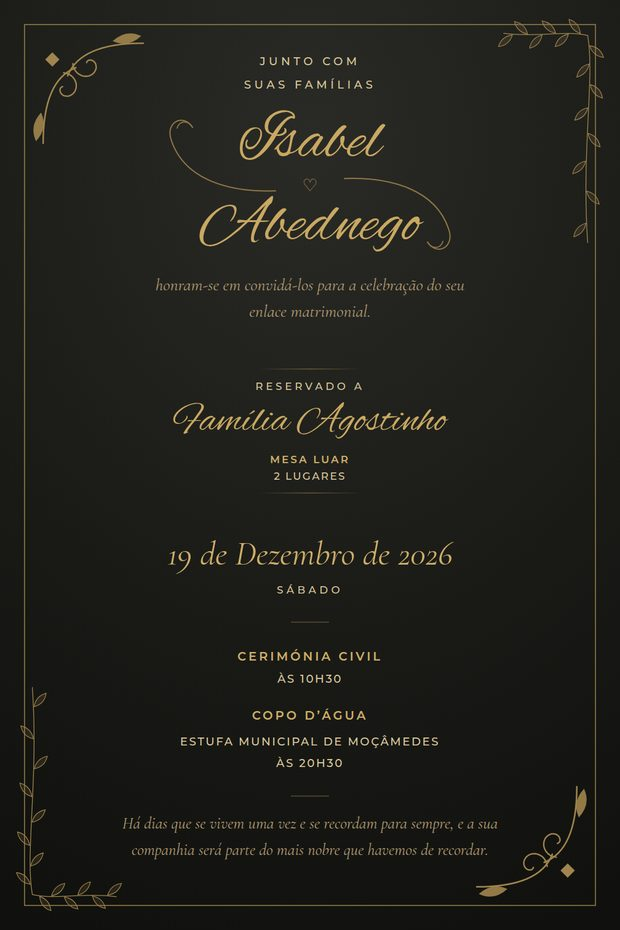
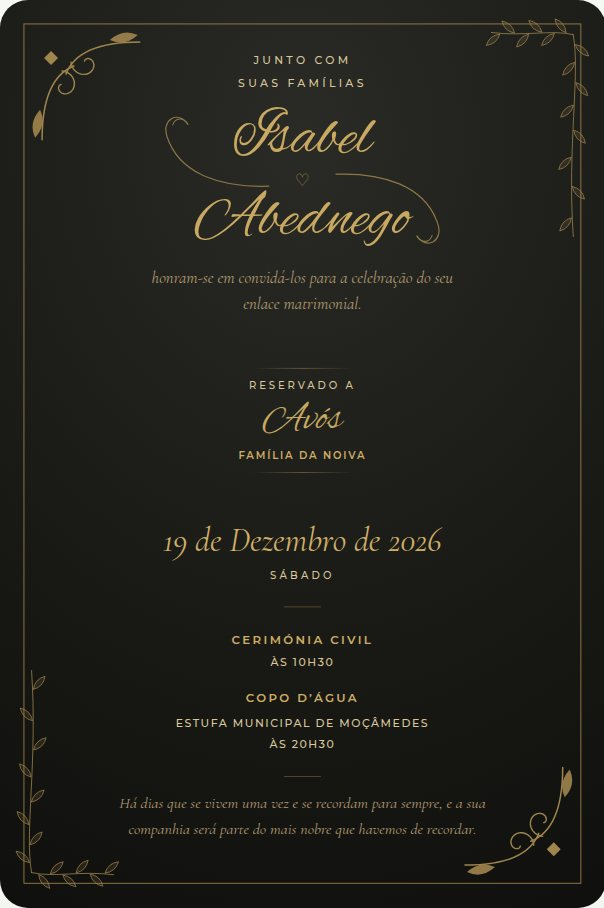
As capturas da montra passam a mostrar o produto de hoje
São capturas do produto a sério, e não desenhos — é essa a promessa que
elas fazem a quem se vem inscrever. Só que o produto mudou por baixo delas:
o cartão do orçamento que diz «Margem até ao teto» já não existe (é «Em
atraso», e filtra), o convite digital tem outro desenho, a página da porta
tem outro cabeçalho. A montra continuava a vender o ecrã de há meses.

Refeitas as seis, e passa a haver ferramenta para as refazer: tests/montra.js.
Semeia o casamento de demonstração com uma festa a sério — nove convites,
trinta e uma pessoas, seis mesas, um orçamento de 7 200 000 Kz com parcelas
(uma vencida, para o cartão «Em atraso» ter um número em vez de um zero
apagado) e três convites já entrados —, abre cada página com uma conta de
noivos criada só para isso e apagada no fim (com a do admin, a tira amarela
da visita de suporte entrava em todas as imagens), tira do ecrã o que não é
produto (a pastilha do tema, os botões flutuantes do convite) e escreve os
JPEG por cima dos que lá estão.

Não é uma prova e o correr.js não lhe pega: corre-se à mão quando o produto
muda de cara. Fica documentada no LEIA-ME das provas, com o aviso que
importa — depois de correr, olhar para as imagens.

Claude-Session: https://claude.ai/code/session_01G7T4LxsLUKe1amxYBuKzJB

diff --git a/casamento_web/tests/montra.js b/casamento_web/tests/montra.js
@@ -1,0 +1,316 @@
+// montra.js — refaz as capturas de ecrã que a montra dos planos mostra.
+//
+// NÃO é uma prova (o correr.js não lhe pega). É a ferramenta que se corre
+// quando o produto muda de cara: as imagens de assets/montra/ são capturas do
+// produto a sério, e uma montra que mostra o ecrã de há seis meses vende uma
+// coisa que já não existe.
+//
+// O que faz, por esta ordem:
+//
+//   1. semeia o casamento de demonstração com uma festa a sério — convidados,
+//      mesas, orçamento, entradas — porque um ecrã vazio não vende nada;
+//   2. abre cada página com uma conta de NOIVOS (criada aqui, apagada no fim),
+//      e não com a do admin: senão a tira amarela da visita de suporte entrava
+//      em todas as capturas;
+//   3. corta o miolo de cada página — o cabeçalho fica de fora, como nas
+//      capturas de origem: a montra vende o módulo, não a moldura;
+//   4. escreve os JPEG por cima dos que lá estão.
+//
+// Uso:  node montra.js            (todas)
+//       node montra.js orcamento  (só uma)
+//
+// Depois de correr, OLHE para as imagens. Uma captura tremida ou cortada a
+// meio de uma linha é pior do que a antiga.
+const { chromium } = require('playwright-core');
+const fs = require('fs'), path = require('path');
+const EXE  = process.env.CHROMIUM || '/opt/pw-browsers/chromium-1194/chrome-linux/chrome';
+const BASE = process.env.BASE_URL || 'http://127.0.0.1:8920';
+const DEST = path.join(__dirname, '..', 'assets', 'montra');
+
+const ADMIN = { u: 'admin', s: 'noivos2026' };
+const NOIVOS = { email: 'montra@exemplo.local', senha: 'Montra-2026-Prova' };
+
+// As medidas das capturas de origem. Mantêm-se: a montra desenha-as com
+// proporções que já estão escolhidas, e mudá-las mexe no desenho da página.
+const MEDIDAS = {
+  convidados: { w: 1100, h: 697 },
+  mesas:      { w: 1100, h: 697 },
+  orcamento:  { w: 1100, h: 697 },
+  porta:      { w: 1100, h: 1102 },
+  impresso:   { w: 620,  h: 930 },
+  digital:    { w: 560,  h: 1211 },
+};
+
+const so = process.argv[2] || '';
+const quero = (k) => !so || k === so;
+
+const api = (p, a, c) => p.evaluate(async ({ a, c }) => {
+  const r = await fetch('api.php?action=' + a, { method: c ? 'POST' : 'GET',
+    headers: Object.assign({ 'X-CSRF-Token': window.CSRF || '' },
+                           c ? { 'Content-Type': 'application/json' } : {}),
+    body: c ? JSON.stringify(c) : undefined });
+  try { return await r.json(); } catch (e) { return { success: false }; }
+}, { a, c });
+
+async function entrar(p, u, s) {
+  await p.goto(BASE + '/login.php', { waitUntil: 'networkidle' });
+  await p.fill('input[name=utilizador]', u);
+  await p.fill('input[name=senha]', s);
+  await p.click('button[type=submit]');
+  await p.waitForLoadState('networkidle');
+}
+
+/**
+ * Uma festa a sério no casamento de demonstração.
+ *
+ * Os números são inventados mas plausíveis, e é essa a única exigência: quem
+ * olha para a montra tem de reconhecer o seu próprio casamento no ecrã. Não se
+ * apaga nada do que já lá esteja — semeia-se por cima, e o que já existir com
+ * o mesmo nome fica como está.
+ */
+async function semear(p) {
+  console.log('  a semear a festa…');
+  const mesas = [
+    ['Amigos', 10, 'redonda', 28, 30], ['Colegas', 12, 'redonda', 62, 30],
+    ['Família da noiva', 10, 'comprida', 28, 62], ['Família do noivo', 8, 'comprida', 62, 62],
+    ['Padrinhos', 6, 'redonda', 45, 78],
+  ];
+  const convites = [
+    ['Amigos do Nelson', 'Amigos',           ['Beatriz', 'Joana', 'Nelson'],           'digital', 'confirmado'],
+    ['Colegas do escritório', 'Colegas',      ['Bruno', 'Alda', 'Rui', 'Sofia'],        'digital', 'confirmado'],
+    ['Família Bengui', 'Amigos',              ['Inês', 'Nelson B.', 'Tiago'],           'ambos',   'pendente'],
+    ['Família Cardoso', 'Colegas',            ['Ana', 'Marta', 'Paulo', 'Rita'],        'fisico',  'recusado'],
+    ['Tios da noiva', 'Família da noiva',     ['Lurdes', 'Alberto', 'Cátia'],           'digital', 'confirmado'],
+    ['Avós', 'Família da noiva',              ['Amélia', 'Joaquim'],                    'fisico',  'pendente'],
+    ['Primos do noivo', 'Família do noivo',   ['Hélder', 'Cláudia', 'Nuno'],            'digital', 'pendente'],
+    ['Padrinhos de batismo', 'Padrinhos',     ['Teresa', 'Miguel'],                     'ambos',   'confirmado'],
+    ['Vizinhos da quinta', 'Colegas',         ['Fernanda', 'José', 'Carla', 'Duarte'],  'digital', 'pendente'],
+  ];
+  const categorias = [
+    ['Espaço e decoração', '#2E86C8'], ['Buffet', '#B4864A'], ['Traje', '#A5473F'],
+    ['Fotografia', '#7A5CA8'], ['Música', '#2F9E8F'], ['Convites', '#C98A2E'],
+  ];
+  // A quinta coluna são as parcelas: [valor, dias a contar de hoje]. As
+  // negativas já venceram — é o que faz o cartão «Em atraso» contar alguma
+  // coisa, e uma montra que mostra a função apagada não a vende.
+  const despesas = [
+    ['Quinta das Acácias · aluguer', 1400000, 'pago',     'Espaço e decoração', []],
+    ['Arranjos florais',              380000, 'previsto', 'Espaço e decoração', [[180000, -6], [200000, 24]]],
+    ['Menu para 120 pessoas',        1900000, 'pago',     'Buffet', []],
+    ['Bolo dos noivos',               240000, 'previsto', 'Buffet', [[240000, 41]]],
+    ['Vestido e alterações',          620000, 'pago',     'Traje', []],
+    ['Fato do noivo',                 340000, 'pago',     'Traje', []],
+    ['Reportagem de fotografia',      700000, 'pago',     'Fotografia', []],
+    ['DJ e som',                      380000, 'previsto', 'Música', [[190000, 12], [190000, 55]]],
+    ['Impressão dos convites',        150000, 'previsto', 'Convites', [[150000, -2]]],
+  ];
+
+  await p.goto(BASE + '/index.php', { waitUntil: 'networkidle' });
+  const feito = await p.evaluate(async (d) => {
+    const chamar = async (a, c) => {
+      const r = await fetch('api.php?action=' + a, { method: c ? 'POST' : 'GET',
+        headers: Object.assign({ 'X-CSRF-Token': window.CSRF },
+                               c ? { 'Content-Type': 'application/json' } : {}),
+        body: c ? JSON.stringify(c) : undefined });
+      try { return await r.json(); } catch (e) { return { success: false }; }
+    };
+    const conta = { mesas: 0, convites: 0, despesas: 0, parcelas: 0, entradas: 0 };
+
+    // ---- as mesas ----
+    const jaMesas = ((await chamar('mesa_list')).mesas || []).map(m => m.nome);
+    for (const [nome, capacidade, forma, pos_x, pos_y] of d.mesas) {
+      if (jaMesas.includes(nome)) continue;
+      await chamar('mesa_save', { nome, capacidade, forma, pos_x, pos_y, cor: 'verde' });
+      conta.mesas++;
+    }
+
+    // ---- os convites, com as pessoas lá dentro ----
+    const jaConv = ((await chamar('convite_list')).convites || []).map(c => c.nome_exibicao);
+    const ids = [];
+    for (const [nome, mesa, membros, tipo, estado] of d.convites) {
+      if (jaConv.includes(nome)) continue;
+      const r = await chamar('convite_save', {
+        nome_exibicao: nome, mesa, tipo, presenca: estado,
+        lado: /noiva|Amigos/.test(mesa) ? 'noiva' : 'noivo',
+        membros: membros.map(x => ({ nome: x, vai: estado === 'confirmado' })) });
+      if (!r || !r.success || !r.convite) continue;
+      conta.convites++;
+      if (estado === 'confirmado') ids.push(r.convite.id);
+    }
+
+    // ---- o orçamento ----
+    await chamar('orc_ajuste', { total: 7200000, moeda: 'Kz' });
+    const est = await chamar('orc_estado');
+    const jaCat = {}; (est.categorias || []).forEach(c => { jaCat[c.nome] = c.id; });
+    for (const [nome, cor] of d.categorias) {
+      if (jaCat[nome]) continue;
+      const r = await chamar('orc_categoria_guardar', { nome, cor });
+      if (r && r.success) jaCat[nome] = r.id;
+    }
+    const jaDesp = (est.despesas || []).map(x => x.descricao);
+    const iso = n => new Date(Date.now() + n * 86400000).toISOString().slice(0, 10);
+    for (const [descricao, valor, estado, cat, parcelas] of d.despesas) {
+      if (jaDesp.includes(descricao)) continue;
+      const r = await chamar('orc_despesa_guardar',
+                   { descricao, valor, estado, categoria_id: jaCat[cat] || null });
+      conta.despesas++;
+      // As parcelas: é o que enche o calendário, e é uma delas, já vencida,
+      // que dá ao cartão «Em atraso» um número em vez de um zero apagado.
+      if (r && r.success && r.id) for (const [v, dias] of (parcelas || [])) {
+        await chamar('orc_pagamento_guardar',
+                     { despesa_id: r.id, valor: v, data_prevista: iso(dias) });
+        conta.parcelas++;
+      }
+    }
+
+    // ---- a porta: alguns já entraram ----
+    // É o que faz o ecrã do porteiro valer a captura: vazio, mostra três zeros.
+    for (const convite_id of ids.slice(0, 3)) {
+      const r = await chamar('porta_checkin', { convite_id, modo: 'todos' });
+      if (r && r.success) conta.entradas++;
+    }
+    return conta;
+  }, { mesas, convites, categorias, despesas });
+  console.log('  ', JSON.stringify(feito));
+}
+
+/**
+ * Tira do ecrã o que não é produto.
+ *
+ * A pastilha do tema é uma escolha de quem está a ver, e a tira da visita de
+ * suporte é do admin: nenhuma das duas existe para o casal que vai comprar, e
+ * na captura ficavam a prometer coisas que não são do módulo.
+ */
+async function limpar(p) {
+  await p.evaluate(() => {
+    document.querySelectorAll('.tema-fab, .tira-suporte, #at-bolha, .at-bolha,'
+      // No convite, os dois botões flutuantes: descarregar e o som. São do
+      // convidado, não do módulo — e numa miniatura leem-se como sujidade.
+      + ' #dlBtn, #audioBtn').forEach(e => e.remove());
+  });
+}
+
+/** Corta o miolo da página (sem o cabeçalho) para a medida pedida. */
+async function capturar(p, nome, seletor) {
+  const { w, h } = MEDIDAS[nome];
+  const cx = await p.$(seletor);
+  if (!cx) { console.log('  ! ' + nome + ': não achei ' + seletor); return; }
+  await limpar(p);
+  const cx2 = await cx.boundingBox();
+  // Corta-se a partir do canto do miolo, mas nunca para fora da janela: uma
+  // captura que passe a borda sai com uma faixa preta.
+  const janela = await p.evaluate(() => ({ w: innerWidth, h: innerHeight }));
+  const x = Math.max(0, Math.min(Math.round(cx2.x), janela.w - w));
+  const y = Math.max(0, Math.round(cx2.y));
+  const dest = path.join(DEST, nome + '.jpg');
+  await p.screenshot({ path: dest, type: 'jpeg', quality: 82,
+    clip: { x, y, width: Math.min(w, janela.w - x),
+            height: Math.min(h, janela.h - y, Math.round(cx2.height)) } });
+  console.log('  →', path.relative(process.cwd(), dest),
+              Math.round(fs.statSync(dest).size / 1024) + ' KB');
+}
+
+(async () => {
+  const b = await chromium.launch({ executablePath: EXE, args: ['--no-sandbox'] });
+  const admin = await (await b.newContext()).newPage();
+  await entrar(admin, ADMIN.u, ADMIN.s);
+  await api(admin, 'casamento_abrir&id=1', {});
+  await semear(admin);
+
+  // Uma conta de noivos, só para as capturas: com a do admin, a tira amarela
+  // da visita de suporte entrava em todas elas.
+  console.log('  a criar a conta de noivos das capturas…');
+  const conta = await api(admin, 'utilizador_criar',
+    { email: NOIVOS.email, nome: 'Montra', senha: NOIVOS.senha,
+      casamento_id: 1, papel: 'noivos' });
+  if (!conta.success && !/já existe/i.test(conta.message || '')) {
+    console.log('  ! não consegui criar a conta:', conta.message);
+  }
+
+  // A janela mede o que a captura mede: assim o miolo cabe inteiro, com a
+  // margem que tem à volta, e não se corta a coluna da direita.
+  const ctx = await b.newContext({ viewport: { width: 1100, height: 1500 },
+                                   deviceScaleFactor: 1 });
+  const p = await ctx.newPage();
+  await entrar(p, NOIVOS.email, NOIVOS.senha);
+
+  const paginas = [
+    ['convidados', '/index.php',     '.container'],
+    ['mesas',      '/mesas.php',     '.container'],
+    ['orcamento',  '/orcamento.php', '.container'],
+  ];
+  for (const [nome, url, sel] of paginas) {
+    if (!quero(nome)) continue;
+    console.log(nome);
+    await p.goto(BASE + url, { waitUntil: 'networkidle' });
+    await p.waitForTimeout(2200);
+    await capturar(p, nome, sel);
+  }
+
+  // ---- a porta: é o posto do porteiro, e a conta é outra ----
+  if (quero('porta')) {
+    console.log('porta');
+    // Metade da largura ao dobro da escala: é um posto de telemóvel, e a
+    // captura tem de se ler como tal. E na aba de quem JÁ entrou — a de
+    // registar mostra um botão e uma caixa de procura, que não conta nada.
+    const pt = await (await b.newContext({ viewport: { width: 550, height: 780 },
+                                           deviceScaleFactor: 2 })).newPage();
+    await entrar(pt, 'porteiro@local', 'noivos2026');
+    await pt.goto(BASE + '/porteiro.php', { waitUntil: 'networkidle' });
+    await pt.waitForTimeout(1800);
+    await pt.evaluate(() => mudarAba('ent'));
+    await pt.waitForTimeout(1200);
+    await limpar(pt);
+    const bbp = await (await pt.$('.contentor')).boundingBox();
+    await pt.screenshot({ path: path.join(DEST, 'porta.jpg'), type: 'jpeg', quality: 82,
+      clip: { x: 0, y: Math.round(bbp.y), width: 550,
+              height: Math.min(551, 780 - Math.round(bbp.y)) } });
+    console.log('  → assets/montra/porta.jpg');
+  }
+
+  // ---- as duas peças: mostram-se como o convidado as vê ----
+  if (quero('digital')) {
+    console.log('digital');
+    // O convite de um convidado a sério, e ABERTO: a capa fechada é bonita mas
+    // não mostra nada do que se está a vender — a contagem, a mesa, o pedido de
+    // confirmação. Toca-se no envelope e espera-se que ele acabe de abrir.
+    const cod = await api(admin, 'convite_list').then(d =>
+      ((d.convites || []).find(c => /Amigos do Nelson/.test(c.nome_exibicao)) || {}).codigo);
+    const dg = await (await b.newContext({ viewport: { width: 560, height: 1240 } })).newPage();
+    await dg.goto(BASE + '/convite-digital.php?c=' + (cod || ''), { waitUntil: 'networkidle' });
+    await dg.waitForTimeout(1800);
+    await dg.evaluate(() => { const c = document.getElementById('cover'); if (c) c.click(); });
+    await dg.waitForTimeout(2600);
+    await limpar(dg);
+    await dg.screenshot({ path: path.join(DEST, 'digital.jpg'), type: 'jpeg', quality: 82,
+      clip: { x: 0, y: 0, width: MEDIDAS.digital.w, height: MEDIDAS.digital.h } });
+    console.log('  → assets/montra/digital.jpg  (convite', cod + ')');
+  }
+  if (quero('impresso')) {
+    console.log('impresso');
+    // O cartão desenha-se a ~310px na página; ao dobro da escala sai com os
+    // 620 que a montra pede, e com o desenho nítido em vez de esticado.
+    const im = await (await b.newContext({ viewport: { width: 700, height: 900 },
+                                           deviceScaleFactor: 2 })).newPage();
+    await entrar(im, NOIVOS.email, NOIVOS.senha);
+    await im.goto(BASE + '/cartoes.php', { waitUntil: 'networkidle' });
+    await im.waitForTimeout(2200);
+    await limpar(im);
+    const cartao = await im.$('.cartao-item .folha');
+    if (cartao) {
+      const bb = await cartao.boundingBox();
+      await im.screenshot({ path: path.join(DEST, 'impresso.jpg'), type: 'jpeg', quality: 84,
+        clip: { x: Math.round(bb.x), y: Math.round(bb.y),
+                width: Math.round(bb.width), height: Math.round(bb.height) } });
+      console.log('  → assets/montra/impresso.jpg');
+    } else console.log('  ! não achei o cartão');
+  }
+
+  // ---- arrumar: a conta das capturas não fica ----
+  console.log('  a tirar a conta das capturas…');
+  const lista = await api(admin, 'utilizador_lista');
+  const eu = (lista.utilizadores || []).find(u => u.email === NOIVOS.email);
+  if (eu) await api(admin, 'utilizador_apagar&id=' + eu.id, {});
+  await b.close();
+  console.log('\nFeito. Agora OLHE para as imagens.');
+})();

diff --git a/casamento_web/tests/LEIA-ME.md b/casamento_web/tests/LEIA-ME.md
@@ -22,6 +22,16 @@ recorte de perto — para se poderem pôr lado a lado e decidir se são bonitos.
 Foi assim que se apanhou o floreado "filete" feito de retas e o "leque" com
 seis riscos cruzados: nenhum dos dois dava erro, só ficavam feios.
 
+`montra.js` também não é prova: é a ferramenta que refaz as capturas de
+`assets/montra/`, as que a montra dos planos mostra a quem se vem inscrever.
+Semeia o casamento de demonstração com uma festa a sério (convidados, mesas,
+orçamento com parcelas, entradas à porta), abre cada página com uma conta de
+noivos criada só para isso — com a do admin, a tira amarela da visita de
+suporte entrava em todas as imagens — e escreve os JPEG por cima dos que lá
+estão. Corre-se quando o produto muda de cara: uma montra que mostra o ecrã
+de há seis meses vende uma coisa que já não existe. `node montra.js` faz
+todas; `node montra.js orcamento` faz só uma. Depois, OLHE para as imagens.
+
 ```sh
 TEST_OUT=/tmp/amostras node amostras.js
 ```
